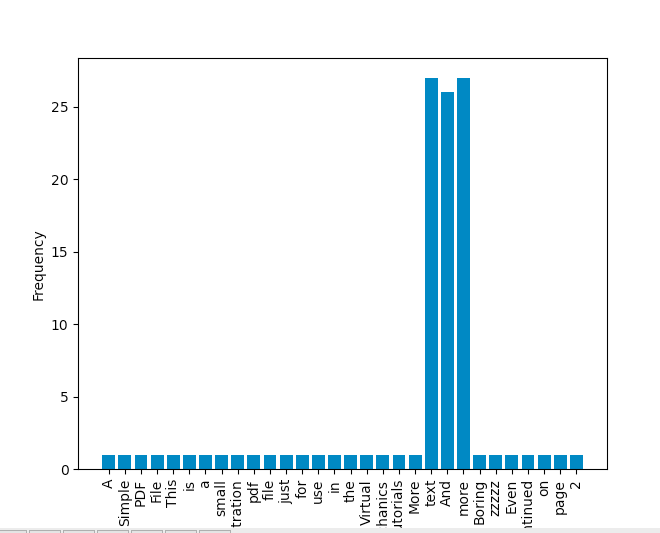
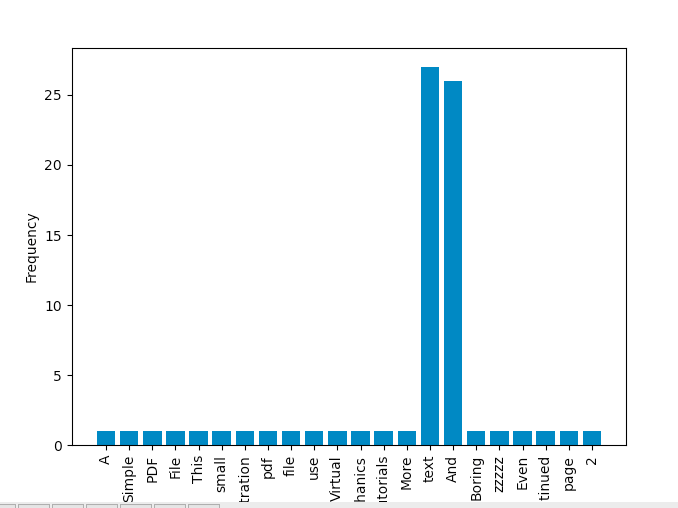
add NLTK removal function and test

Changed region(s): [[0.0, 0.0886, 0.9394, 1.0]]

diff --git a/mainloop.py b/mainloop.py
@@ -3,6 +3,7 @@ import matplotlib.pyplot as plt
 import PyPDF2
 #import numpy as np
 
+
 class wordfreq:
 	def __init__(self):
 		#uniqword = []
@@ -59,6 +60,26 @@ class wordfreq:
 
 		return uniquewords
 
+	def rmvNLTK(uniqword):
+		NLTK = ["i", "me", "my", "myself", "we", "our", "ours", "ourselves", "you", "your", "yours", "yourself", 
+		"yourselves", "he", "him", "his", "himself", "she", "her", "hers", "herself", "it", "its", "itself", 
+		"they", "them", "their", "theirs", "themselves", "what", "which", "who", "whom", "this", "that", 
+		"these", "those", "am", "is", "are", "was", "were", "be", "been", "being", "have", "has", "had", "having", 
+		"do", "does", "did", "doing", "a", "an", "the", "and", "but", "if", "or", "because", "as", "until", "while", 
+		"of", "at", "by", "for", "with", "about", "against", "between", "into", "through", "during", "before", 
+		"after", "above", "below", "to", "from", "up", "down", "in", "out", "on", "off", "over", "under", "again", 
+		"further", "then", "once", "here", "there", "when", "where", "why", "how", "all", "any", "both", "each", 
+		"few", "more", "most", "other", "some", "such", "no", "nor", "not", "only", "own", "same", "so", "than", 
+		"too", "very", "s", "t", "can", "will", "just", "don", "should", "now"]
+
+		out = uniqword
+
+		for ele in NLTK:
+			if ele in out:
+				out.remove(ele)
+
+		return out
+
 	def countwords(txt, uniquewords):
 		l = len(uniquewords)
 		count = []
@@ -85,6 +106,7 @@ def main():
 	txt = wordfreq.splitwords(txt)
 	#print(len(txt))
 	uniqword = wordfreq.getwords(txt)
+	uniqword = wordfreq.rmvNLTK(uniqword)
 
 	countword = wordfreq.countwords(txt, uniqword)
 

diff --git a/tests/test_nltk.py b/tests/test_nltk.py
@@ -1,0 +1,34 @@
+import sys
+#sys.path.append('../word-analyzer-ci-RJLimBU')
+from mainloop import wordfreq
+
+NLTK = ["i", "me", "my", "myself", "we", "our", "ours", "ourselves", "you", "your", "yours", "yourself", 
+		"yourselves", "he", "him", "his", "himself", "she", "her", "hers", "herself", "it", "its", "itself", 
+		"they", "them", "their", "theirs", "themselves", "what", "which", "who", "whom", "this", "that", 
+		"these", "those", "am", "is", "are", "was", "were", "be", "been", "being", "have", "has", "had", "having", 
+		"do", "does", "did", "doing", "a", "an", "the", "and", "but", "if", "or", "because", "as", "until", "while", 
+		"of", "at", "by", "for", "with", "about", "against", "between", "into", "through", "during", "before", 
+		"after", "above", "below", "to", "from", "up", "down", "in", "out", "on", "off", "over", "under", "again", 
+		"further", "then", "once", "here", "there", "when", "where", "why", "how", "all", "any", "both", "each", 
+		"few", "more", "most", "other", "some", "such", "no", "nor", "not", "only", "own", "same", "so", "than", 
+		"too", "very", "s", "t", "can", "will", "just", "don", "should", "now"]
+
+def test_nltktxt():
+	txt = wordfreq.openfile("example2.txt")
+	out = wordfreq.rmvpunc(txt)
+	name = wordfreq.splitwords(out)
+	nltk = wordfreq.getwords(name)
+	name = wordfreq.rmvNLTK(nltk)
+
+	for ele in NLTK:
+		assert not (ele in name)
+
+def test_nltktxt():
+	txt = wordfreq.openfile("sample.pdf")
+	out = wordfreq.rmvpunc(txt)
+	name = wordfreq.splitwords(out)
+	nltk = wordfreq.getwords(name)
+	name = wordfreq.rmvNLTK(nltk)
+
+	for ele in NLTK:
+		assert not (ele in name)

diff --git a/tests/test_openfile.py b/tests/test_openfile.py
@@ -15,4 +15,4 @@ def test_openexample2():
 
 def test_openpdf():
 	name = wordfreq.openfile("sample.pdf")
-	assert name[0] == 'A'
+	assert "A Simple PDF File" in name

diff --git a/README.md b/README.md
@@ -1,11 +1,14 @@
 # word-analyzer-ci-RJLimBU
 ## word-analyzer-ci-RJLimBU created by GitHub Classroom <br />
 ### Description <br />
-this project counts the word frequency in a text or PDF file and display the histogram <br />
+this project reads contents in a txt or PDF file, counts the word frequency <br />
+and display the histogram. NLTK stop words are removed from the count. <br />
 ### How to Use <br />
 -run the 'mainloop.py' file <br />
 -enter the filename with .txt or .pdf suffix in the same directory <br />
-once user input the filename, the program will show word frequency and display a histogram <br />
+<br />
+once user input the filename, the program will show word frequency <br />
+and display a histogram. It will remove NLTK stop words from the count. <br />
 ### Dependencies <br />
 see "requirement.txt" <br />
 ### Requirement
@@ -16,6 +19,7 @@ Python version: 3.8, 3.9, 3.10 <br />
 -check if correctly remove punctuation <br />
 -correctly split strings into list of words <br /> 
 -extract distinct words from the string <br />
+-NLTK stop words removal <br />
 -correct word count for each distinct words <br />
 ### sample result
 The histogram displays the word frequency in the example2.txt. The x-axis shows the distinct words <br /> 
